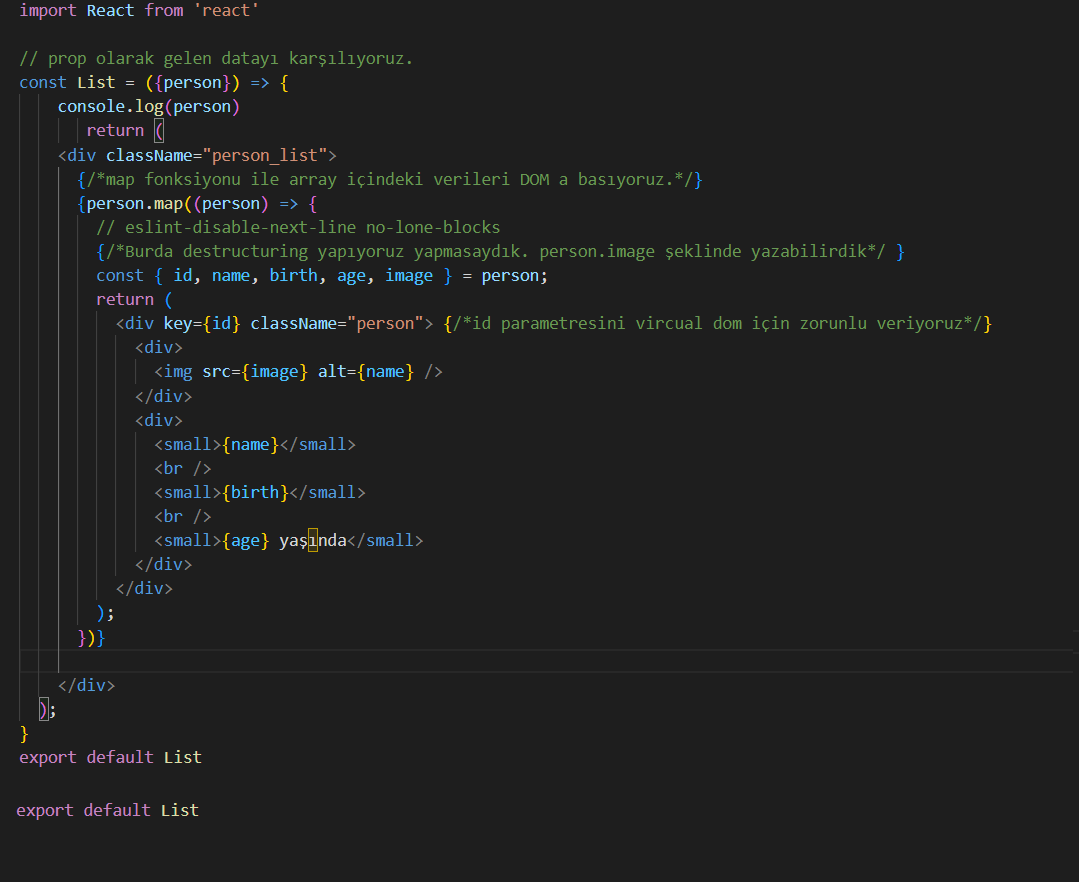
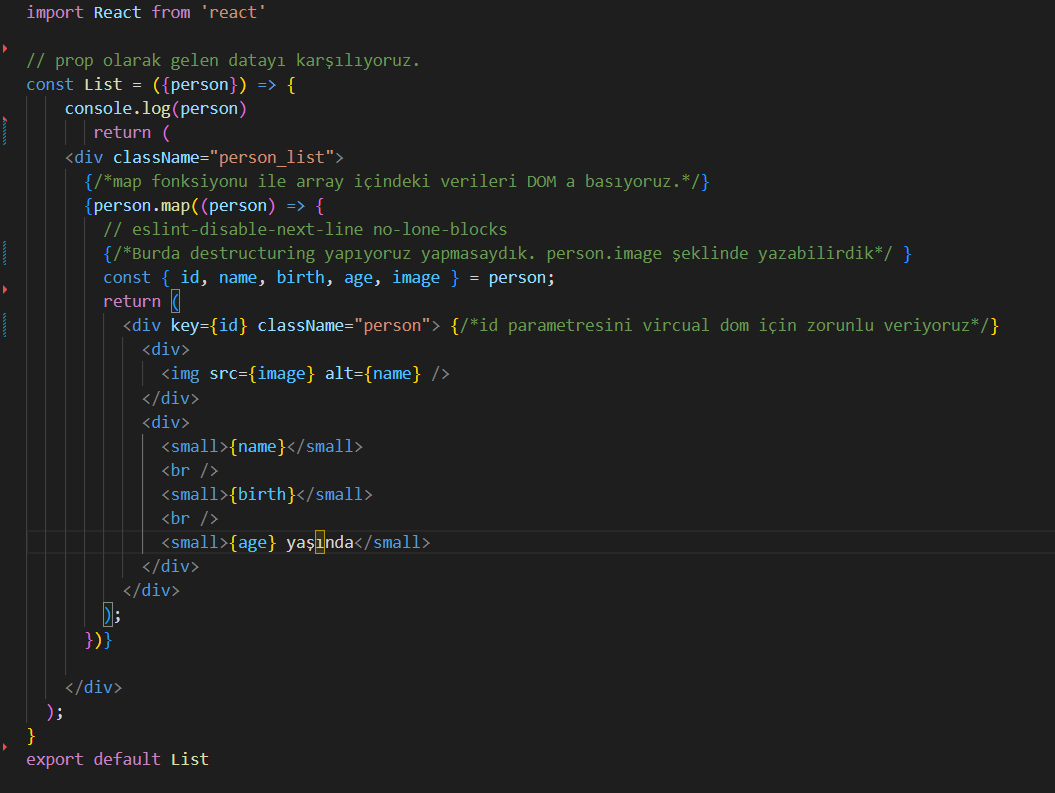
added comments

diff --git a/src/components/Picture.jsx b/src/components/Picture.jsx
@@ -1,19 +1,23 @@
 import React from 'react'
 import App from "../resim/App.png" // Kullanacağımız resimleri import ediyoruz
-import List from '../resim/List.png'; //Kullanacağımız resimleri import ediyoruz
+import List from '../resim/List.png' //Kullanacağımız resimleri import ediyoruz
+import PicComponent from "../resim/PicComponent.png"   //Kullanacağımız resimleri import ediyoruz
 
 const Picture = () => {
+  // RETURN kısmında kullanılacak her Javascript kodu  ya da ifadesi ve inline CSS  {} ile yazılır.
   return (
     <div className="resim">
       <div>
         <h6>App Componenti </h6>
         <p>
+          {/*Her bir resim için hedef yolunu ayrı ayrı belirtiyoruz.*/}
           <a target="_blank" href={App} rel="noopener noreferrer">
+            {/*Yukarıda import ettiğimiz resmi source kısmına yazıyoruz.*/}
             <img
               className="pic"
               src={App}
               alt="App"
-              style={{ width: "150px" }}
+              style={{ width: "565px" }}
             />
           </a>
         </p>
@@ -26,7 +30,7 @@ const Picture = () => {
               className="pic"
               src={List}
               alt="List"
-              style={{ width: "150px" }}
+              style={{ width: "550px" }}
             />
           </a>
         </p>
@@ -34,12 +38,12 @@ const Picture = () => {
       <div>
         <h6> Picture Componenti</h6>
         <p>
-          <a target="_blank" href={App} rel="noopener noreferrer">
+          <a target="_blank" href={PicComponent} rel="noopener noreferrer">
             <img
               className="pic"
-              src={App}
-              alt="App"
-              style={{ width: "150px" }}
+              src={PicComponent}
+              alt="PicComponent"
+              style={{ width: "500px" }}
             />
           </a>{" "}
         </p>

diff --git a/src/App.js b/src/App.js
@@ -1,6 +1,6 @@
 import './App.css';
 import List from "./components/List" // ap.js içinde çağıracağız componnetleri import ediyorum.
-// import Picture from './components/Picture'// ap.js içinde çağıracağız componnetleri import ediyorum.
+import Picture from './components/Picture'// ap.js içinde çağıracağız componnetleri import ediyorum.
 import {data} from "./components/data.js" // buradaki bilgileri props olarak göndermek için import ediyorum
 import { useState } from 'react'; // değişecek state durumu için useState Hook'unu import ediyoruz.
 
@@ -18,17 +18,19 @@ function App() {
   };
 
   return (
-    <section>
-      <div className="container">
-        {/*Burda arrayimizde kaç personel varsa o kadar sayıyı dinamik olarak döndürür.*/}
-        {show && <h3> Bu Ay {person.length} Personelimizin Doğum Günü </h3>}
-        {/*props olarak alt componente gönderiyoruz*/}
-        <List person={person} />
-        <button onClick={handleclick}>{text}</button>
-        {!show && <h3 className="value"> İnsan Değerlidir.</h3>}
-      </div>
-    </section>
+    <div>
+      <section>
+        <div className="container">
+          {/*Burda arrayimizde kaç personel varsa o kadar sayıyı dinamik olarak döndürür.*/}
+          {show && <h3> Bu Ay {person.length} Personelimizin Doğum Günü </h3>}
+          {/*props olarak alt componente gönderiyoruz*/}
+          <List person={person} />
+          <button onClick={handleclick}>{text}</button>
+          {!show && <h3 className="value"> İnsan Değerlidir.</h3>}
+        </div>
+      </section>
+      <Picture />
+    </div>
   );
 }
-
 export default App;

diff --git a/src/index.js b/src/index.js
@@ -2,7 +2,7 @@ import React from 'react';
 import ReactDOM from 'react-dom/client';
 import './index.css';
 import App from './App';
-import reportWebVitals from './reportWebVitals';
+
 
 const root = ReactDOM.createRoot(document.getElementById('root'));
 root.render(
@@ -11,7 +11,3 @@ root.render(
   </React.StrictMode>
 );
 
-// If you want to start measuring performance in your app, pass a function
-// to log results (for example: reportWebVitals(console.log))
-// or send to an analytics endpoint. Learn more: https://bit.ly/CRA-vitals
-reportWebVitals();
